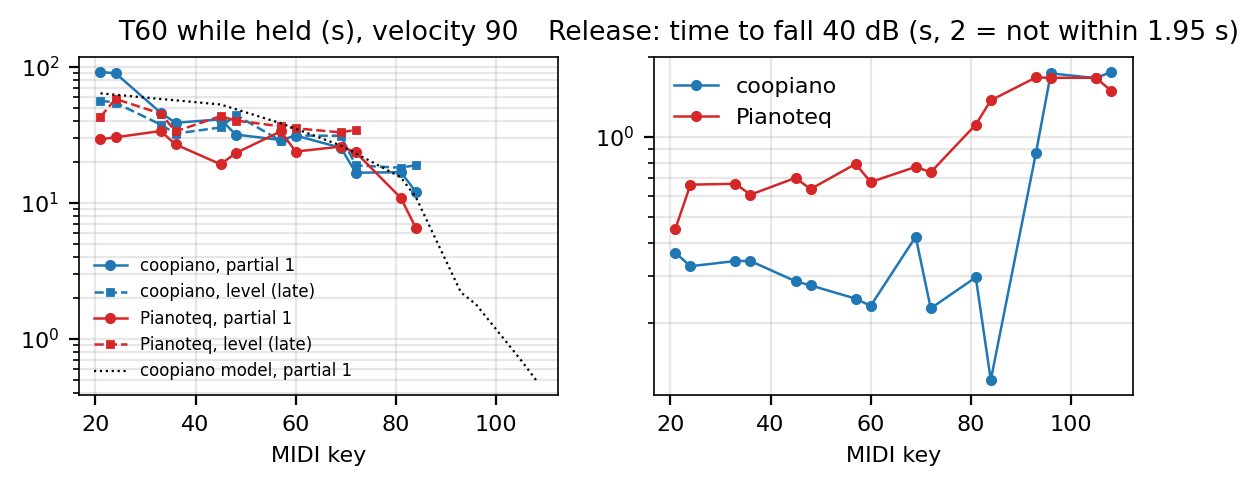
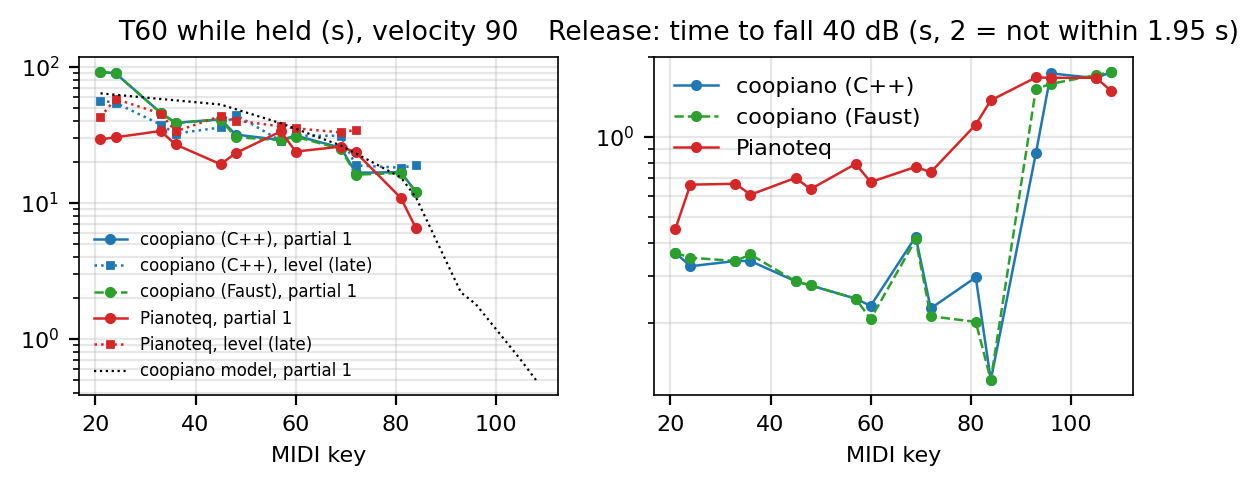
Pianoteq comparison: measure the Faust port as well
The comparison renders every score a third time with this repository's
model (build/full/render, the voice and body compiled by faust-rs):
pianoteq_midi.py writes X.score next to each X.mid (the same events,
velocity MIDI/127, `control 0 reverb/mix 0` for a dry body), the
figures draw it dashed, and results.txt section 8 gives, for every
measure, the Faust port minus the C++.

Median differences: 0.44 dB in level (96 notes), 0.36 % in brightness,
0.10 % in B, 0.07 cent in tuning, 0.4-3.8 % in decay, 0.01 s in release,
0.03 dB in pedal sustain. Two departures the velocity-0.5 validations
had not seen: A0 and C1 are 1.7 to 5.9 dB louder from velocity 90 up,
and after a staccato with the pedal up the C++ keeps 15-25 dB more
between 0.35 and 1 s after the release. Offline, the port renders at
1.6-2.5x real time against 6-8x for the C++, whose soundboard is a
partitioned convolution.

diff --git a/scripts/pianoteq_analyze.py b/scripts/pianoteq_analyze.py
@@ -44,7 +44,10 @@ from scipy.io import wavfile
 
 D = "build/pianoteq"
 OUT = "pianoteq"
-INSTR = [("coopiano", "coopiano", "C0"), ("pianoteq", "Pianoteq", "C3")]
+# (render suffix, label, colour, line style): the C++ coopiano, its Faust port
+# (tools/render.cpp) and Pianoteq.
+INSTR = [("coopiano", "coopiano (C++)", "C0", "-"), ("faust", "coopiano (Faust)", "C2", "--"),
+         ("pianoteq", "Pianoteq", "C3", "-")]
 NAMES = ["C", "C#", "D", "D#", "E", "F", "F#", "G", "G#", "A", "A#", "B"]
 plt.rcParams.update({"font.size": 8, "axes.linewidth": 0.6, "lines.linewidth": 0.9,
                      "figure.dpi": 200, "savefig.bbox": "tight"})
@@ -257,7 +260,7 @@ KEYS = sorted({int(n[1]) for n in notes})
 VELS = sorted({int(n[2]) for n in notes})
 DECAY_HOLD = 15.0
 data = {}
-for stem, label, _ in INSTR:
+for stem, label, _, _ in INSTR:
     sr, x = load(f"notes_{stem}")
     res = [analyze_note(x, sr, *n) for n in notes]
     ref = next(r["level"] for r in res if r["key"] == 60 and r["vel"] == 90)
@@ -377,22 +380,69 @@ for k in sorted({p["key"] for p in data["coopiano"]["pedal"]}):
 say()
 
 say("7. Rendering time (offline, this machine; Pianoteq's includes its start-up)")
+TIMES = {}
 for l in open(f"{D}/timing.txt"):
-    s, _, tp, _, tc = l.split()
-    sr_, xx = load(f"{s}_coopiano")
+    f = l.split()
+    TIMES[f[0]] = dict(zip(f[1::2], map(float, f[2::2])))
+    sr_, xx = load(f"{f[0]}_coopiano")
     dur = xx.shape[0] / sr_
-    say("   %-10s %6.1f s of audio: Pianoteq %5.1f s (%5.1fx real time), coopiano %5.1f s (%5.1fx)" % (
-        s, dur, float(tp), dur / float(tp), float(tc), dur / float(tc)))
+    say("   %-10s %6.1f s of audio: " % (f[0], dur) + ", ".join(
+        "%s %5.1f s (%5.1fx real time)" % (who, t, dur / t) for who, t in TIMES[f[0]].items()))
+say()
+say("8. The Faust port (tools/render.cpp: this repository's voice and body compiled to C++")
+say("   by faust-rs) against the C++ coopiano, on the same scores: every measure above")
+say("   taken on both, Faust minus C++ (ratios in %). Largest difference, where, and median.")
+
+
+def compare(title, unit, pairs):
+    pairs = [(w, d) for w, d in pairs if d is not None and np.isfinite(d)]
+    if not pairs:
+        return
+    where, big = max(pairs, key=lambda p: abs(p[1]))
+    med = float(np.median([abs(d) for _, d in pairs]))
+    say("   %-34s %+8.2f %-5s (%s)%s median %.2f %s, %d values" % (
+        title, big, unit, where, " " * max(1, 12 - len(where)), med, unit, len(pairs)))
+
+
+def ratio(a, b):
+    return 100 * (a / b - 1) if a and b and np.isfinite(a) and np.isfinite(b) and b > 0 else None
+
+
+def fitted(stem, k):
+    return get(stem, k, 64)["fit"]
+
+
+compare("inharmonicity B", "%", [(name(k), ratio(fitted("faust", k)["B"], fitted("coopiano", k)["B"]))
+                                 for k in KEYS if fitted("faust", k) and fitted("coopiano", k) and k < 108])
+compare("tuning (fitted f0)", "cents", [(name(k), fitted("faust", k)["cents"] - fitted("coopiano", k)["cents"])
+                                        for k in KEYS if fitted("faust", k) and fitted("coopiano", k) and k < 108])
+compare("level (re C4 v=90)", "dB", [("%s v=%d" % (name(k), v), get("faust", k, v)["level"] - get("coopiano", k, v)["level"])
+                                     for k in KEYS for v in VELS])
+compare("brightness (centroid)", "%", [("%s v=%d" % (name(k), v), ratio(get("faust", k, v)["centroid"], get("coopiano", k, v)["centroid"]))
+                                       for k in KEYS for v in VELS])
+for field, title in (("early", "T60 level, early"), ("late", "T60 level, late")):
+    compare(title, "%", [(name(k), ratio(data["faust"]["decay"][k][field], data["coopiano"]["decay"][k][field])) for k in KEYS])
+for n in range(4):
+    compare("T60 partial %d" % (n + 1), "%", [(name(k), ratio(data["faust"]["decay"][k]["partials"][n],
+                                                              data["coopiano"]["decay"][k]["partials"][n])) for k in KEYS])
+compare("release, -40 dB", "s", [(name(k), get("faust", k, 90)["release"] - get("coopiano", k, 90)["release"]) for k in KEYS])
+compare("balance L-R", "dB", [(name(k), get("faust", k, 90)["balance"] - get("coopiano", k, 90)["balance"]) for k in KEYS])
+for field, down, title in (("tail", 0, "pedal: tail, pedal up"), ("tail", 1, "pedal: tail, pedal down"), ("halo", 1, "pedal: halo, pedal down")):
+    compare(title, "dB", [(name(q["key"]), q[field] - next(c[field] for c in data["coopiano"]["pedal"] if c["key"] == q["key"] and c["down"] == down))
+                          for q in data["faust"]["pedal"] if q["down"] == down])
+for piece in ("prelude", "demo"):
+    (cc, cm), (fc, fm) = data["coopiano"]["music"][piece], data["faust"]["music"][piece]
+    say("   %-34s correlation %.3f / %.3f (C++ / Faust), mono sum %+.2f / %+.2f dB" % (piece, cc, fc, cm, fm))
 open(f"{OUT}/results.txt", "w").write("\n".join(REPORT) + "\n")
 
 # ------------------------------------------------------------------ figures
 keys = np.array(KEYS)
 mk = [k for k in KEYS if name(k) in model]
 fig, axes = plt.subplots(1, 2, figsize=(6.8, 2.2))
-for stem, label, col in INSTR:
+for stem, label, col, ls in INSTR:
     fits = [get(stem, k, 64)["fit"] for k in KEYS]
-    axes[0].semilogy(keys, [f["B"] if f and f["B"] > 0 else np.nan for f in fits], "o-", color=col, ms=3, label=label)
-    axes[1].plot(keys, [f["cents"] if f else np.nan for f in fits], "o-", color=col, ms=3, label=label)
+    axes[0].semilogy(keys, [f["B"] if f and f["B"] > 0 else np.nan for f in fits], "o", ls=ls, color=col, ms=3, label=label)
+    axes[1].plot(keys, [f["cents"] if f else np.nan for f in fits], "o", ls=ls, color=col, ms=3, label=label)
 axes[0].semilogy(mk, [model[name(k)][1] for k in mk], "k:", lw=0.8, label="coopiano model")
 axes[1].plot(mk, [1200 * np.log2(model[name(k)][0] / et(k)) for k in mk], "k:", lw=0.8, label="coopiano model")
 axes[0].set_title("Inharmonicity B (velocity 64)")
@@ -405,8 +455,8 @@ fig.savefig(f"{OUT}/fig_inharmonicity.png")
 
 fig, axes = plt.subplots(1, 4, figsize=(6.8, 2.0), sharey=True)
 for ax, k in zip(axes, (36, 60, 84, 108)):
-    for stem, label, col in INSTR:
-        ax.plot(VELS, [get(stem, k, v)["level"] for v in VELS], "o-", color=col, ms=3, label=label)
+    for stem, label, col, ls in INSTR:
+        ax.plot(VELS, [get(stem, k, v)["level"] for v in VELS], "o", ls=ls, color=col, ms=3, label=label)
     ax.set_title(name(k))
     ax.set_xlabel("MIDI velocity")
     ax.grid(alpha=0.3)
@@ -416,8 +466,8 @@ fig.savefig(f"{OUT}/fig_dynamics.png")
 
 fig, axes = plt.subplots(1, 3, figsize=(6.8, 2.1))
 for ax, k in zip(axes, (21, 36, 60)):
-    for stem, label, col in INSTR:
-        ax.plot(VELS, [get(stem, k, v)["centroid"] / et(k) for v in VELS], "o-", color=col, ms=3, label=label)
+    for stem, label, col, ls in INSTR:
+        ax.plot(VELS, [get(stem, k, v)["centroid"] / et(k) for v in VELS], "o", ls=ls, color=col, ms=3, label=label)
     ax.set_title(name(k))
     ax.set_xlabel("MIDI velocity")
     ax.grid(alpha=0.3)
@@ -429,27 +479,28 @@ fig, axes = plt.subplots(2, 3, figsize=(6.8, 3.6), sharey=True)
 for j, k in enumerate((36, 60, 84)):
     for i, v in enumerate((40, 127)):
         ax = axes[i, j]
-        w = 0.38
-        for s, (stem, label, col) in enumerate(INSTR):
+        w = 0.27
+        for s, (stem, label, col, _) in enumerate(INSTR):
             a = get(stem, k, v).get("amps")
             if a is not None:
-                ax.bar(np.arange(1, a.size + 1) + (s - 0.5) * w, a + 60, w, bottom=-60, color=col, label=label)
+                ax.bar(np.arange(1, a.size + 1) + (s - 1) * w, a + 60, w, bottom=-60, color=col, label=label)
         ax.set_title("%s v=%d" % (name(k), v))
         ax.set_ylim(-60, 2)
         ax.grid(alpha=0.3, axis="y")
     axes[1, j].set_xlabel("partial")
 axes[0, 0].set_ylabel("dB re strongest")
 axes[1, 0].set_ylabel("dB re strongest")
-axes[0, 0].legend(frameon=False, loc="upper right")
+axes[0, 2].legend(frameon=False, loc="upper right")
 fig.subplots_adjust(hspace=0.45)
 fig.savefig(f"{OUT}/fig_partials.png")
 
 fig, axes = plt.subplots(1, 2, figsize=(6.8, 2.2))
-for stem, label, col in INSTR:
+for stem, label, col, ls in INSTR:
     dec = data[stem]["decay"]
-    axes[0].semilogy(keys, [dec[k]["partials"][0] for k in KEYS], "o-", color=col, ms=3, label=label + ", partial 1")
-    axes[0].semilogy(keys, [dec[k]["late"] for k in KEYS], "s--", color=col, ms=2.5, label=label + ", level (late)")
-    axes[1].semilogy(keys, [min(get(stem, k, 90)["release"], 2.0) for k in KEYS], "o-", color=col, ms=3, label=label)
+    axes[0].semilogy(keys, [dec[k]["partials"][0] for k in KEYS], "o", ls=ls, color=col, ms=3, label=label + ", partial 1")
+    if stem != "faust":
+        axes[0].semilogy(keys, [dec[k]["late"] for k in KEYS], "s:", color=col, ms=2.5, label=label + ", level (late)")
+    axes[1].semilogy(keys, [min(get(stem, k, 90)["release"], 2.0) for k in KEYS], "o", ls=ls, color=col, ms=3, label=label)
 axes[0].semilogy(mk, [model[name(k)][2] for k in mk], "k:", lw=0.8, label="coopiano model, partial 1")
 axes[0].set_title("T60 while held (s), velocity 90")
 axes[1].set_title("Release: time to fall 40 dB (s, 2 = not within 1.95 s)")
@@ -460,10 +511,10 @@ axes[0].legend(frameon=False, fontsize=6)
 axes[1].legend(frameon=False)
 fig.savefig(f"{OUT}/fig_decay.png")
 
-wav = {stem: load(f"notes_{stem}") for stem, _, _ in INSTR}
-fig, axes = plt.subplots(2, 3, figsize=(6.8, 3.8))
+wav = {stem: load(f"notes_{stem}") for stem, _, _, _ in INSTR}
+fig, axes = plt.subplots(3, 3, figsize=(6.8, 5.6))
 for j, (k, fmax) in enumerate(((36, 4000), (60, 6000), (84, 10000))):
-    for i, (stem, label, _) in enumerate(INSTR):
+    for i, (stem, label, _, _) in enumerate(INSTR):
         sr, x = wav[stem]
         a = int(get(stem, k, 90)["on"] * sr)
         seg = x[a - int(0.05 * sr):a + int(4.0 * sr)]
@@ -477,7 +528,7 @@ for j, (k, fmax) in enumerate(((36, 4000), (60, 6000), (84, 10000))):
         ax.imshow(S[fr <= fmax], origin="lower", aspect="auto", cmap="magma", vmin=-80, vmax=0,
                   extent=[-0.05, -0.05 + S.shape[1] * hop / sr, 0, fmax / 1000])
         ax.set_title("%s %s v=90" % (label, name(k)))
-        if i == 1:
+        if i == 2:
             ax.set_xlabel("s")
         if j == 0:
             ax.set_ylabel("kHz")
@@ -486,7 +537,7 @@ fig.savefig(f"{OUT}/fig_spectrograms.png")
 # ------------------------------------------------------------------ listening
 os.makedirs(f"{D}/listen", exist_ok=True)
 for piece in ("prelude", "demo"):
-    for stem, _, _ in INSTR:
+    for stem, _, _, _ in INSTR:
         for src, tag in ((f"{piece}_{stem}", "dry"), (f"listen/{piece}_{stem}_room", "room")):
             if not os.path.exists(f"{D}/{src}.wav"):
                 continue

diff --git a/scripts/pianoteq_midi.py b/scripts/pianoteq_midi.py
@@ -15,7 +15,8 @@ differences come from the instruments, not from the scores.
   prelude.mid    J.S. Bach, Prelude in C major BWV 846, bars 1-11, for listening
 
 The note list of notes.mid is written to notes.txt (onset key velocity hold),
-which scripts/pianoteq_analyze.py reads back."""
+which scripts/pianoteq_analyze.py reads back. Every file X.mid also has its
+X.score, the same events for tools/render.cpp (the Faust model)."""
 import os
 import struct
 
@@ -53,6 +54,28 @@ def write_midi(path, events):
     with open(path, "wb") as f:
         f.write(b"MThd" + struct.pack(">IHHH", 6, 0, 1, DIVISION))
         f.write(b"MTrk" + struct.pack(">I", len(track)) + track)
+    write_score(path[:-4] + ".score", events)
+
+
+def write_score(path, events):
+    """The same events as a score of tools/render.cpp (the Faust model): notes
+    with velocity MIDI/127, as coopiano reads MIDI files, and the pedal. Its
+    first line switches the body's reverb off (`control 0 reverb/mix 0`), as
+    GP_NO_REVERB=1 does for coopiano; pianoteq_render.sh drops it for the
+    renders with the room."""
+    lines, held = ["control 0 reverb/mix 0"], {}
+    for t, msg in events:
+        kind = msg[0] & 0xF0
+        at = round(t / TICK) * TICK  # the MIDI file's time grid
+        if kind == 0x90 and msg[2] > 0:
+            held.setdefault(msg[1], []).append((at, msg[2]))
+        elif kind in (0x80, 0x90):
+            on, vel = held[msg[1]].pop(0)
+            lines.append("note %.6f %d %.6f %.6f" % (on, msg[1], vel / 127, at - on))
+        elif kind == 0xB0 and msg[1] == 64:
+            lines.append("pedal %.6f %.6f" % (at, msg[2] / 127))
+    with open(path, "w") as f:
+        f.write("\n".join(lines) + "\n")
 
 
 def note(t, key, vel, hold):

diff --git a/pianoteq/README.md b/pianoteq/README.md
@@ -1,7 +1,8 @@
 # coopiano face à Pianoteq
 
-Mesures comparées de coopiano (le modèle C++ que ce dépôt porte en Faust) et de
-Pianoteq 9, sur les mêmes fichiers MIDI, rendus hors ligne et à sec. Chiffres
+Mesures comparées de coopiano (le modèle C++ que ce dépôt porte en Faust), de son
+portage Faust et de Pianoteq 9, sur les mêmes partitions, rendues hors ligne et à
+sec. Chiffres
 complets : [`results.txt`](results.txt). Scripts : `scripts/pianoteq_*.py|sh`
 (voir « Reproduire »).
 
@@ -26,6 +27,11 @@ raison. Là où un jugement demanderait un vrai piano, ce document le dit.
 | Stéréo sur la musique | corrélation 0,44, −1,4 dB en mono | 0,43, −1,5 dB | identique |
 | Rendu hors ligne, cette machine | 6–8 × le temps réel | 12–36 × | Pianoteq 2–5 × plus rapide |
 
+Le portage Faust reproduit le C++ sur toutes ces mesures : écarts médians de 0,4 dB
+sur les niveaux, 0,4 % sur la brillance, 0,1 % sur l'inharmonicité et moins de 4 %
+sur les décroissances. Il s'en écarte en deux endroits : A0 et C1 fortissimo, de 2 à
+6 dB plus forts, et la fin d'un étouffement, pédale levée (§ 8).
+
 ## Ce qui est comparé
 
 - **coopiano** : le programme C++ d'origine (`../../coopiano`, commit `bba9e06`),
@@ -34,6 +40,11 @@ raison. Là où un jugement demanderait un vrai piano, ce document le dit.
   flottants 32 bits au lieu d'entiers 16 bits (`scripts/coopiano_float_wav.py`,
   voir « En passant » plus bas). La normalisation par fichier (crête à 0,89) est
   conservée : seuls les niveaux relatifs ont un sens.
+- **Le portage Faust** de ce dépôt : la voix et le corps compilés en C++ par faust-rs
+  et joués par `tools/render.cpp` (`make render`, 16 voix), sur les mêmes
+  évènements que les fichiers MIDI (`X.score` à côté de `X.mid`, vélocité MIDI /
+  127), avec `control 0 reverb/mix 0` pour un corps sans réverbération. Sur les
+  figures, ses courbes sont en pointillés verts.
 - **Pianoteq 9.2.5, version d'essai**, preset « NY Steinway D Classical » avec sa
   réverbération, son délai (effet 1) et son limiteur coupés
   (`scripts/pianoteq_preset.sh`, par le serveur JSON-RPC de Pianoteq). Ses
@@ -167,6 +178,52 @@ rapide. L'essentiel du coût de coopiano est sa table (732 modes, imagée par
 région) et son registre sympathique, calculés en permanence : en temps réel,
 une voix coûte 3 % d'un cœur et le corps 36 à 40 % (`results/cost.txt`).
 
+### 8. Le portage Faust face au C++
+
+Chaque mesure ci-dessus, prise aussi sur le portage Faust (`results.txt`, § 8 :
+plus grand écart, où, et médiane) :
+
+| mesure | écart médian | plus grand écart |
+|---|---|---|
+| inharmonicité B | 0,10 % | −1,2 % (A6) |
+| accord (f0 ajusté) | 0,07 cent | +1,0 cent (C6) |
+| niveau, 16 touches × 6 vélocités | 0,44 dB | +5,9 dB (A0, v=127) |
+| brillance | 0,36 % | +26 % (A7, v=115 : un centroïde sous le fondamental, fait des bruits d'action) |
+| T60 du niveau, début / fin | 0,7 % / 2,5 % | +14 % / −7 % (C1) |
+| T60 des partiels 1 à 4 | 0,4 à 3,8 % | −24 % (partiel 4 de C1) |
+| relâchement, −40 dB | 0,01 s | +0,6 s (A6, sans étouffoir) |
+| équilibre G − D | 0,06 dB | −0,7 dB (C8) |
+| pédale enfoncée : queue / halo | 0,03 dB / 0,31 dB | +0,2 dB / −0,6 dB |
+| pédale levée : queue 1–4 s | 16 dB | −26 dB (C2) |
+| musique : corrélation G/D, perte en mono | | 0,438 / 0,444, −1,44 / −1,42 dB |
+
+Deux écarts dépassent ce que les validations du dépôt avaient vu (elles étaient
+faites à vélocité 0,5) :
+
+- **A0 et C1 fortissimo** : le portage est plus fort de 1,7 à 5,9 dB sur les 0,3
+  premières secondes à partir de v=90 (A0 : +1,7, +3,0, +5,9 dB à v=90, 115, 127 ;
+  C1 : +3,1, +4,9, +5,8 dB). À A1 et au-dessus, les niveaux restent à 1,7 dB près.
+  Cause non cherchée ici.
+- **La fin d'un étouffement**, pédale levée, après une note piquée (0,15 s) : les
+  deux sont encore ensemble 0,1 s après le relâchement (C4 : −29 dB de l'attaque),
+  puis, jusqu'à 1 s, le C++ garde une composante 15 à 25 dB au-dessus du portage
+  (C4 : −47,5 contre −71,5 dB à 0,5 s) ; à 2 s, les deux se rejoignent. Sur les
+  notes tenues 5 s, le temps de chute de 40 dB reste le même (0,01 s d'écart médian).
+  Le portage a pourtant le bruit d'étouffoir, le choc et le frottement du feutre
+  (`cp.noises`). Cause non cherchée non plus.
+
+En chemin, `tools/render.cpp` s'est révélé ignorer la vélocité : il rangeait les
+contrôles par étiquette seule, et l'étiquette « gain » de la vélocité était écrasée
+par celle de `resonance/gain`. Toutes les notes de `make render` jouaient donc à
+0,5. Il range maintenant les contrôles par chemin, comme la page web ; le coût
+mesuré par `scripts/cost.sh` n'en dépend pas (3,0 % par voix et 36 à 40 % pour le
+corps, contre 3,1 % et les mêmes chiffres avant).
+
+Hors ligne, le portage rend 1,6 à 2,5 fois plus vite que le temps réel, contre 6 à 8
+fois pour le C++ : le C++ joue sa table d'harmonie comme une réponse
+impulsionnelle (convolution partitionnée, `streaming_soundboard.hpp`), le portage
+comme 732 résonateurs modaux par canal.
+
 ## Ce qu'on peut en retenir
 
 - **Ils s'accordent** sur la forme de l'inharmonicité et de l'accord étiré, les
@@ -179,6 +236,8 @@ une voix coûte 3 % d'un cœur et le corps 36 à 40 % (`results/cost.txt`).
   qui ne raccourcit plus dans le fort. C'est l'endroit où chercher en premier (lois
   de raideur et d'exposant du feutre ; `[hammer] stiffness_scale` et
   `velocity_exponent` dans `default.ini`).
+- **Le portage Faust** porte ces écarts tels quels : face à Pianoteq, il se comporte
+  comme le C++, sauf l'extrême grave fortissimo et la fin d'un étouffement (§ 8).
 - Lequel est le plus juste ne peut se dire qu'avec des enregistrements d'un vrai
   piano ; les scripts acceptent n'importe quel rendu WAV à la place de Pianoteq.
 
@@ -196,18 +255,20 @@ effet ; c'est une remarque pour coopiano lui-même, pas pour le portage.
 ## Écoute
 
 `scripts/pianoteq_analyze.py` écrit dans `build/pianoteq/listen/` le prélude et
-la démo de chaque instrument, à sec (`*_dry_*`) et avec sa propre salle
-(`*_room_*` : réverbération de coopiano, preset de Pianoteq intact), tous au même
+la démo de chaque instrument (C++, Faust, Pianoteq), à sec (`*_dry_*`) et avec sa
+propre salle (`*_room_*` : réverbération de coopiano, preset de Pianoteq intact),
+tous au même
 niveau RMS (−20 dBFS) pour que la sonie ne décide pas. Ces fichiers ne sont pas
 versionnés : ce sont des rendus d'une version d'essai de Pianoteq, et ils pèsent
-120 Mo.
+plus de 100 Mo.
 
 ## Reproduire
 
 ```bash
 scripts/pianoteq_preset.sh         # une fois : écrit le preset sec de Pianoteq
-make pianoteq                      # rendus (~4 min), puis mesures et figures
+make pianoteq                      # rendus (~13 min), puis mesures et figures
 ```
 
 `COOPIANO` désigne le dépôt coopiano (par défaut `../../coopiano`), `PIANOTEQ`
-l'exécutable de Pianoteq et `PIANOTEQ_FXP` le preset.
+l'exécutable de Pianoteq et `PIANOTEQ_FXP` le preset ; le rendu du portage
+demande `build/full/render` (`make render`, donc faust-rs).

diff --git a/README.md b/README.md
@@ -23,7 +23,7 @@ itself.
 | `scripts/` | table generation (soundboard fit) and the comparisons |
 | `tools/render.cpp` | native offline renderer of a score (`scores/demo.txt`) |
 | `web/` | the web version: page, keyboard, MIDI input, AudioWorklet host of the faust-rs wasm (`make web`, `make web-serve`) |
-| `pianoteq/` | coopiano against Pianoteq 9 on the same MIDI files: report (in French), measurements and figures (`make pianoteq`) |
+| `pianoteq/` | coopiano (C++ and Faust) against Pianoteq 9 on the same scores: report (in French), measurements and figures (`make pianoteq`) |
 
 ## Use
 
@@ -303,6 +303,9 @@ the two agree on the shape of inharmonicity and stretch tuning, mid-register dec
 the stereo image; coopiano's treble at velocity 20 is 25-38 dB quieter (relative to each one's C4), its brightness stops growing
 above velocity 64 (the hammer's contact time stops shortening), its sympathetic halo with
 the pedal is 17-25 dB weaker and its dampers are faster. Pianoteq renders 2-5 times faster.
+The Faust port, measured the same way, follows the C++ (median differences 0.4 dB in level,
+0.4 % in brightness, under 4 % in decay) except A0-C1 fortissimo (up to +6 dB) and the end
+of a damping with the pedal up.
 
 ## Known differences
 
